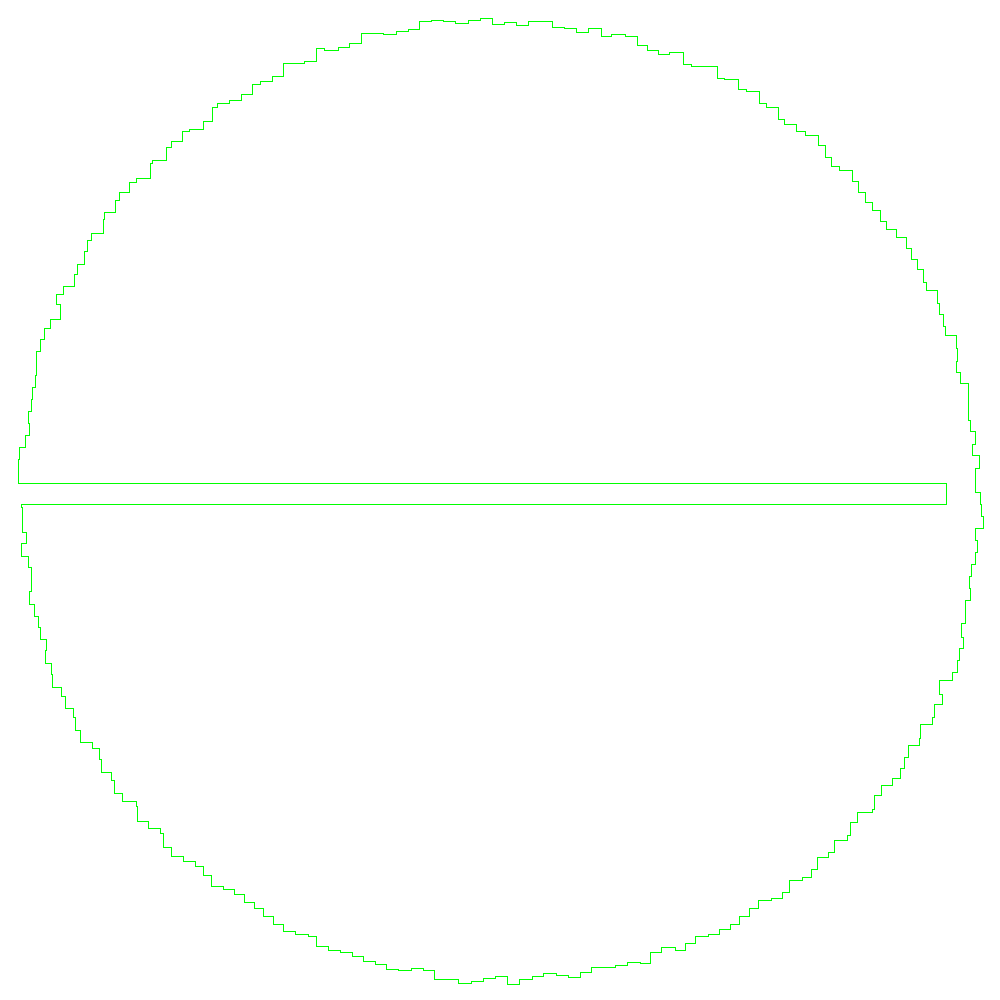
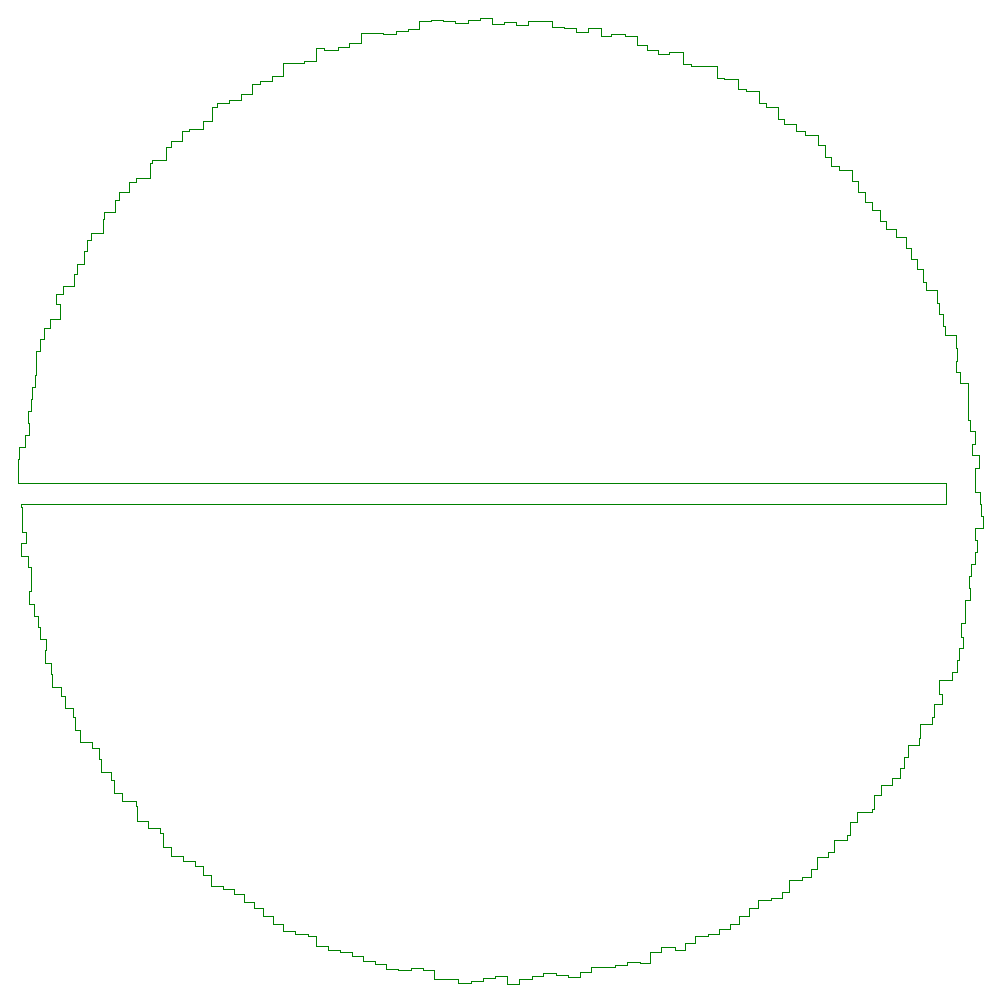
solve 2025 day 9 part 2

diff --git a/src/advent/solutions/year_2025/day_09.py b/src/advent/solutions/year_2025/day_09.py
@@ -3,6 +3,8 @@
 https://adventofcode.com/2025/day/9
 """
 
+from functools import cmp_to_key
+
 from PIL import Image, ImageDraw
 
 from advent.core import Solver
@@ -26,14 +28,81 @@ class Day09(Solver):
 
     def part2(self) -> int:
         """Solve part 2."""
-        return 0
+        above = [(x, y) for x, y in self.store.corners if y > 50_000]
+        below = [(x, y) for x, y in self.store.corners if y < 50_000]
 
-    def save_as_image(self):
+        rectangles = []
+        for i, (x1, y1) in enumerate(above):
+            for x2, y2 in above[i + 1 :]:
+                rectangles.append((x1, y1, x2, y2))
+        for i, (x1, y1) in enumerate(below):
+            for x2, y2 in below[i + 1 :]:
+                rectangles.append((x1, y1, x2, y2))
+        rectangles.sort(key=self.cmp_rectangles)
+
+        for r in rectangles:
+            if self.contains_n_points(*r):
+                continue
+            return self.area(*r)
+        return -1
+
+    @staticmethod
+    @cmp_to_key
+    def cmp_rectangles(r1, r2):
+        size1 = Day09.area(*r1)
+        size2 = Day09.area(*r2)
+        return size2 - size1
+
+    @staticmethod
+    def area(x1: int, y1: int, x2: int, y2: int) -> int:
+        x_diff = abs(x1 - x2) + 1
+        y_diff = abs(y1 - y2) + 1
+        return x_diff * y_diff
+
+    @staticmethod
+    def order_args(a: int, b: int) -> tuple[int, int]:
+        if a > b:
+            return b, a
+        return a, b
+
+    def contains_n_points(self, x1: int, y1: int, x2: int, y2: int, n: int = 1) -> bool:
+        x1, x2 = self.order_args(x1, x2)
+        y1, y2 = self.order_args(y1, y2)
+
+        within = 0
+        for x, y in self.store.corners:
+            if within >= n:
+                break
+            if x1 < x < x2 and y1 < y < y2:
+                within += 1
+        return within >= n
+
+    def save_as_image(
+        self,
+        points: list | None = None,
+        square: tuple | None = None,
+        file_name: str = "day_09_image.png",
+    ):
+        if points is None:
+            points = self.store.corners
+        points.append(points[0])
+
         scale = 100
         img = Image.new("RGB", (100_000 // scale, 100_000 // scale), "white")
         draw = ImageDraw.Draw(img)
-        coords = [(x // scale, y // scale) for x, y in self.store.corners + [self.store.corners[0]]]
-        draw.line(coords, fill=(0, 255, 0), width=1)
 
-        path = self.solution_dir.joinpath("day_09_image.png")
+        if square is not None:
+            x1, y1, x2, y2 = square
+            x1, x2 = self.order_args(x1, x2)
+            y1, y2 = self.order_args(y1, y2)
+            draw.rectangle(
+                [(x1 // scale, y1 // scale), (x2 // scale, y2 // scale)],
+                fill="red",
+                outline="black",
+            )
+
+        coords = [(x // scale, y // scale) for x, y in points]
+        draw.line(coords, fill="green", width=1)
+
+        path = self.solution_dir.joinpath(file_name)
         img.save(path)
